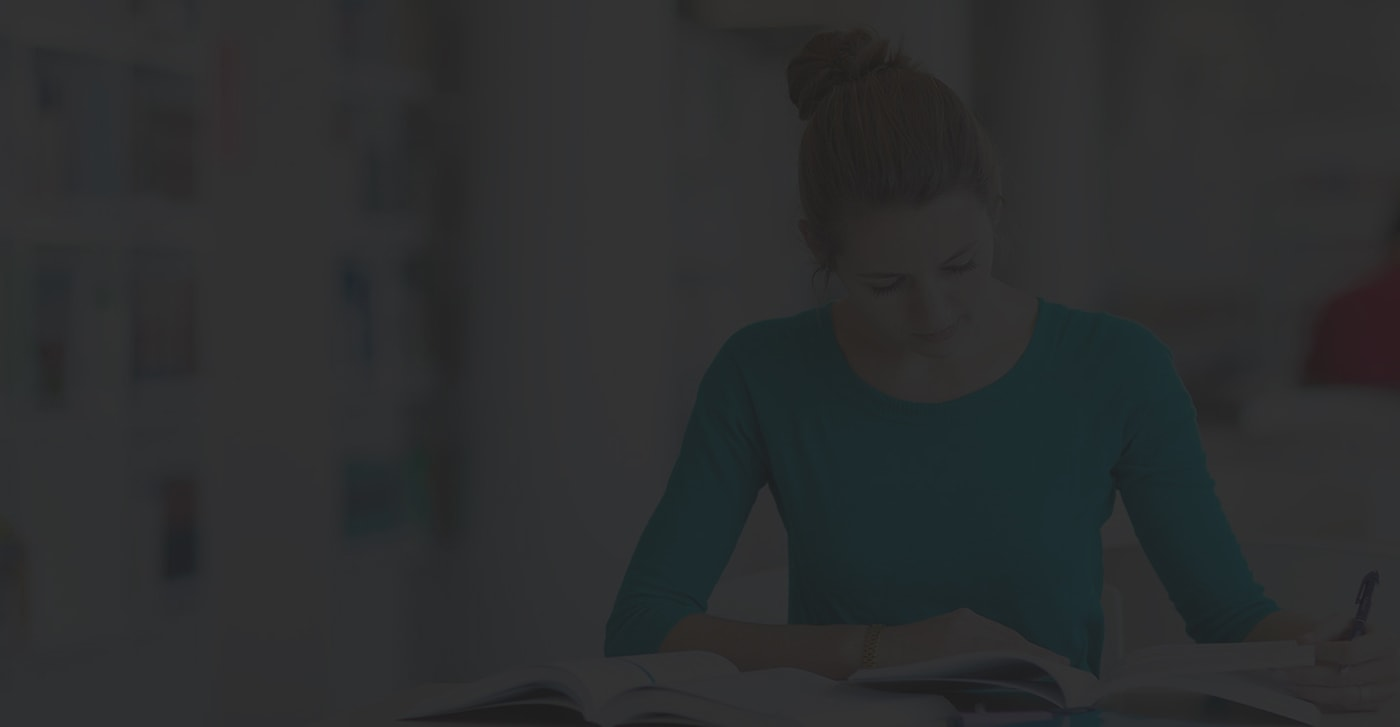
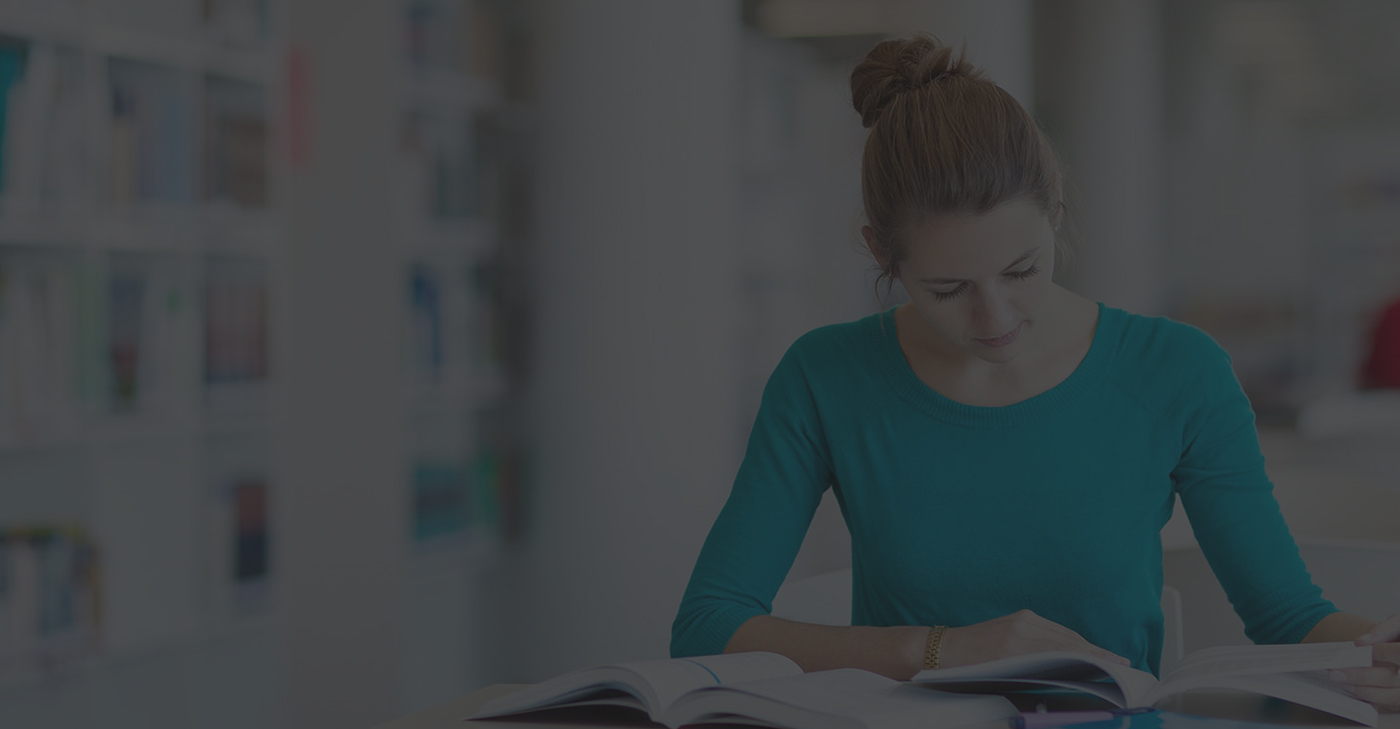
slider images brightness

diff --git a/resources/views/home/index.blade.php b/resources/views/home/index.blade.php
@@ -2,7 +2,7 @@
 @section('content')
 <section class="tutor">
    <div class="w3-content  w3-display-container w3-section">
-      <img class="mySlides img_home" src="{{ asset('public/assets/images/banner2.png') }}" class="img-responsive">
+      <img class="mySlides img_home" src="{{ asset('public/assets/images/banner2.jpg') }}" class="img-responsive">
       <img class="mySlides img_home" src="{{ asset('public/assets/images/slide1.jpg') }}" class="img-responsive">
       <img class="mySlides img_home" src="{{ asset('public/assets/images/timetutor1.jpg') }}" class="img-responsive">
       <button class="w3-button w3-black w3-display-left" onclick="plusDivs(-1)">&#10094;</button>
